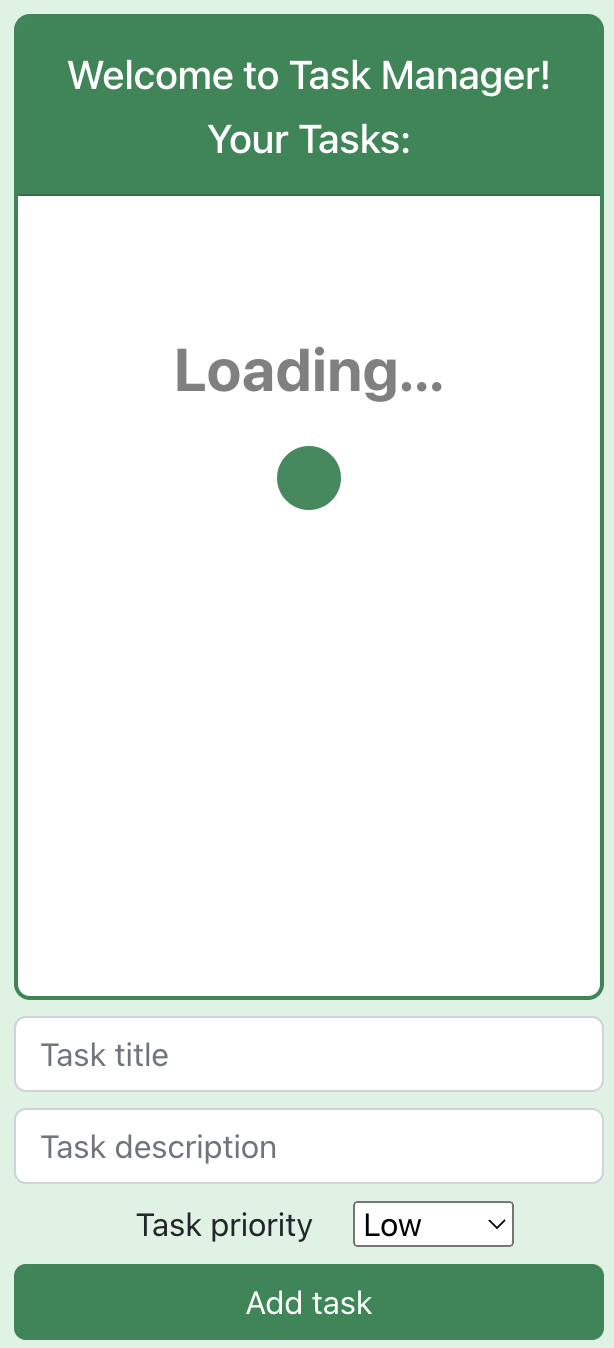
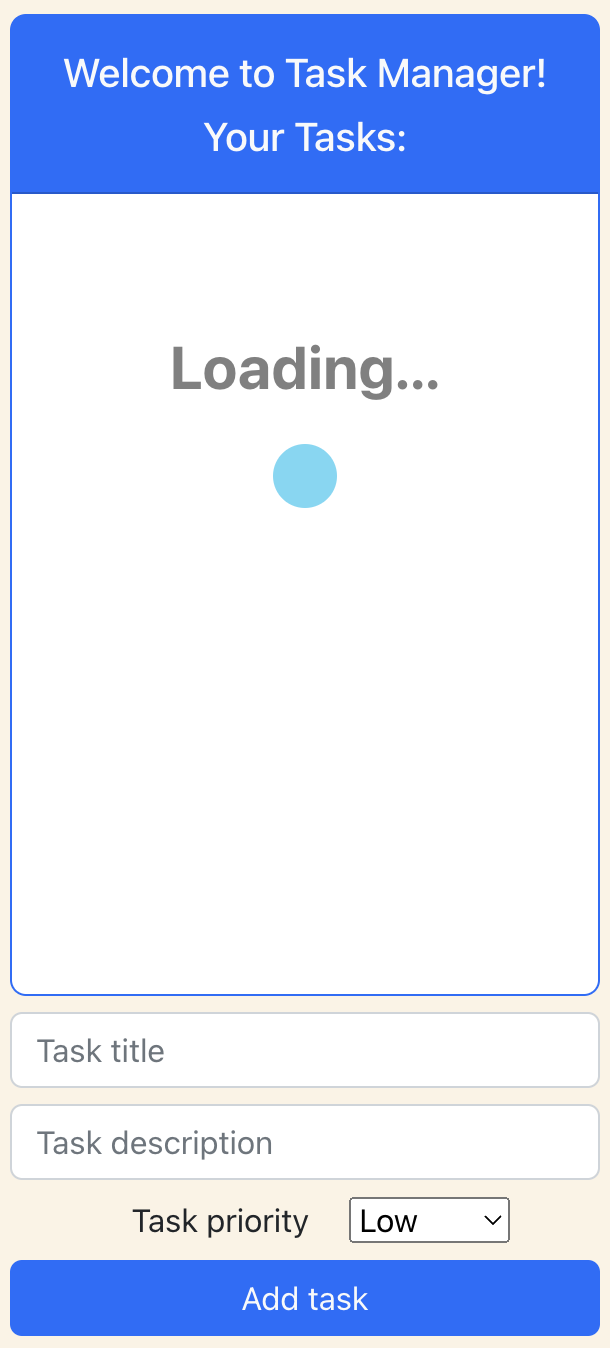
Change style and screenshots

diff --git a/src/components/container/task_list.jsx b/src/components/container/task_list.jsx
@@ -83,8 +83,8 @@ const TaskListComponent = () => {
     }else{
         tasksTable = (
         <div>
-            <h3 className="mt-5" >No tasks to show</h3>
-            <h4>Please, create a task</h4>
+            <h3 className="mt-5 text-secondary">No tasks to show</h3>
+            <h4 className="text-secondary">Please, create a task</h4>
         </div>
         )
     }
@@ -98,8 +98,8 @@ const TaskListComponent = () => {
     return (
         <div className='my-3'>
             <div className='col-12' >
-                <div className='card border border-2 rounded-3 border-success '>
-                    <div className='card-header pt-3' style={{'background-color': 'rgb(25,135,83)', 'color': 'white' }}>
+                <div className='card border border-1 rounded-3 border-primary'>
+                    <div className='card-header pt-3 bg-primary text-light'>
                         <h5>
                             Welcome to Task Manager!
                         </h5>
@@ -109,12 +109,12 @@ const TaskListComponent = () => {
                     </div>
                     <div
                         className='card-body' data-mdb-perfect-scrollbar='true' 
-                        style={ {position: 'relative', height: '400px', overflow: 'scroll'}}>
+                        style={{position: 'relative', height: '400px', overflow: 'scroll'}}>
                             {loading ? 
                                 (
                                     <div className="mt-5">
                                         <p style={loadingStyle}>Loading...</p>
-                                        <div className="spinner-grow text-success" role="status"></div> 
+                                        <div className="spinner-grow text-info" role="status"></div> 
                                     </div>   
                                 ) 
                             : tasksTable

diff --git a/src/components/pure/forms/taskForm.jsx b/src/components/pure/forms/taskForm.jsx
@@ -37,7 +37,7 @@ const TaskForm = ({add, length}) => {
                         High
                     </option>
                 </select>
-                <button type='submit' className='btn btn-success btn-md my-2 w-100'>
+                <button type='submit' className='btn btn-primary text-light btn-md my-2 w-100'>
                     {length > 0 ? 'Add task' : 'Create your first task'}
                 </button>
             </div>

diff --git a/src/App.css b/src/App.css
@@ -47,5 +47,5 @@ body {
   justify-content: center;
   padding-top: 40px;
   padding-bottom: 40px;
-  background-color: rgb(219, 243, 227);
+  background-color: rgb(252, 243, 229);
 }

diff --git a/README.md b/README.md
@@ -5,9 +5,9 @@ Users can add new tasks to the list, edit or remove existing tasks. Each task in
 a priority level that indicates its relative importance or urgency.
 
 <div>
-    <img src="./src/media/pictures/Your tasks.png" alt="Task manager" width="200" height="300">
-    <img src="./src/media/pictures/Loading.png" alt="Loading"  width="150" height="300">
-    <img src="./src/media/pictures/No tasks.png" alt="No tasks"  width="150" height="300">
+    <img src="./src/media/pictures/your tasks.png" alt="Task manager" width="200" height="300">
+    <img src="./src/media/pictures/loading.png" alt="Loading"  width="150" height="300">
+    <img src="./src/media/pictures/no tasks.png" alt="No tasks"  width="150" height="300">
 </div>
 <br>
 This project was built for OpenBootcamp React Course
